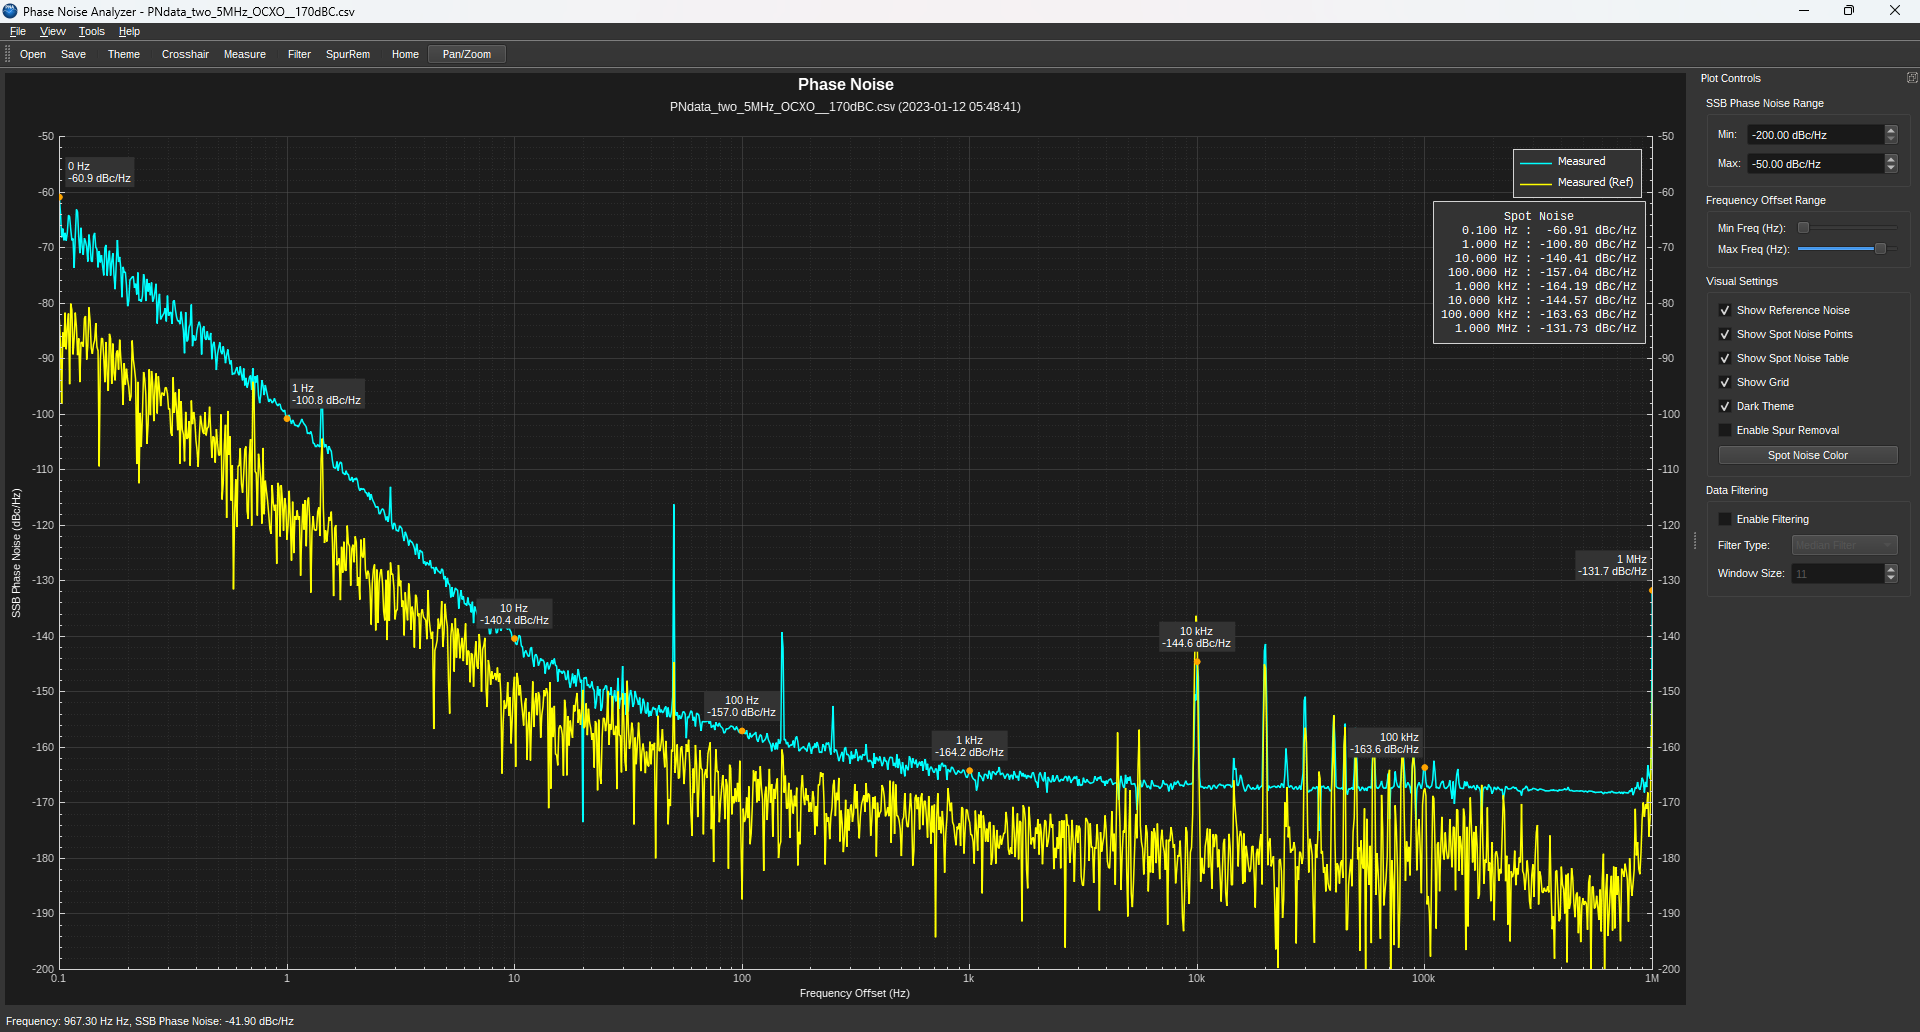
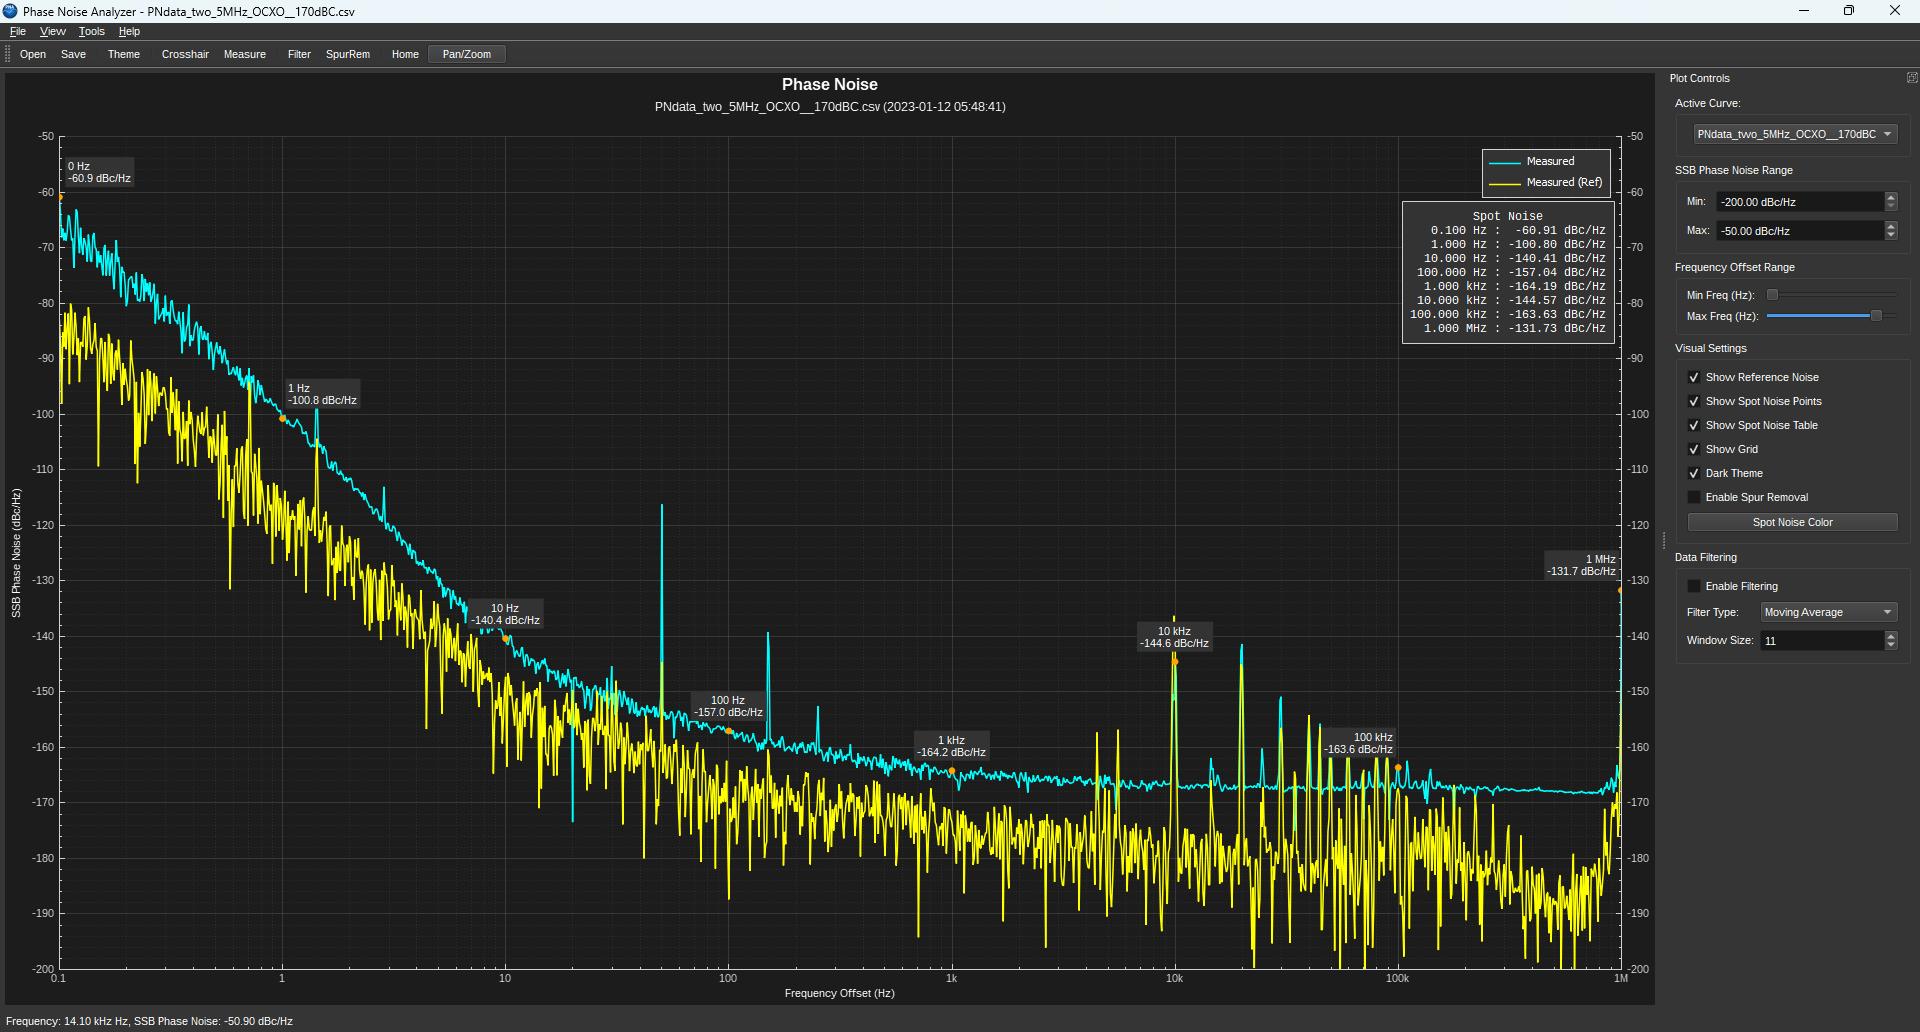
V1.0.1.0 Add Active Curve dropdown list to select the active curve (used for Spot Noise Points/Spot Noise Table/Crosshair).

diff --git a/phasenoiseanalyzerapp.cpp b/phasenoiseanalyzerapp.cpp
@@ -19,8 +19,8 @@
 ****************************************************************************
 **           Author: Benjamin VERNOUX                                     **
 **          Contact: https://github.com/bvernoux                          **
-**             Date: 04 May 2025                                          **
-**          Version: 1.0.0.1                                              **
+**             Date: 24 May 2025                                          **
+**          Version: 1.0.1.0                                              **
 ****************************************************************************/
 #include "phasenoiseanalyzerapp.h"
 #include "constants.h"
@@ -148,6 +148,7 @@ PhaseNoiseAnalyzerApp::PhaseNoiseAnalyzerApp(const QStringList& csvFilenames,
 
 	// Initialize spot noise colors based on initial theme
 	m_spotNoiseColor = m_useDarkTheme ? m_defaultSpotNoiseColorDark : m_defaultSpotNoiseColorLight;
+	m_activeDatasetIndex = -1; // Initialize active dataset index
 
 	setupUi();
 	applyTheme(); // Apply initial theme
@@ -170,6 +171,8 @@ PhaseNoiseAnalyzerApp::PhaseNoiseAnalyzerApp(const QStringList& csvFilenames,
 			initPlot(); // Show empty plot if no data
 		}
 	}
+	// Ensure combo box is updated even if no files were loaded
+	updateActiveCurveCombo();
 
 	// Setup timer for delayed maximization
 	m_startupTimer = new QTimer(this);
@@ -681,7 +684,11 @@ void PhaseNoiseAnalyzerApp::updatePlot()
 
 		QString filterPart = m_filteringEnabled ? QString(" | Filter: %1(W=%2)").arg(m_filterTypeCombo->currentText()).arg(m_filterWindowSpin->value()) : "";
 		QString spurPart = m_spurRemovalEnabled ? " | SpurRem:On" : "";
-		m_subtitleText->setText(QString("%1 (%2)%3%4").arg(filenamePart).arg(timestampPart.isEmpty() ? "N/A" : timestampPart).arg(filterPart).arg(spurPart));
+		if(timestampPart.isEmpty() == false) {
+			m_subtitleText->setText(QString("%1 (%2)%3%4").arg(filenamePart).arg(timestampPart).arg(filterPart).arg(spurPart));
+		} else {
+			m_subtitleText->setText(QString("%1 %2%3").arg(filenamePart).arg(filterPart).arg(spurPart));
+		}
 		m_subtitleText->setTextColor(textColor);
 		m_subtitleText->setTextFlags(Qt::AlignHCenter | Qt::AlignTop);
 		m_subtitleText->setMargins(QMargins(0, 0, 0, 4));
@@ -713,8 +720,7 @@ void PhaseNoiseAnalyzerApp::updatePlot()
 	yAxis2->setTicker(fixedTickerY2_upd); yAxis2->setNumberFormat("f"); yAxis2->setNumberPrecision(0);
 
 	// --- Plot Data for Each Dataset ---
-	bool isFirstVisible = true;
-	QCPGraph* firstVisibleMeasuredGraph = nullptr;
+	QCPGraph* firstVisibleMeasuredGraph = nullptr; // Still needed for generic operations or if active index is invalid
 
 	for (PlotData& data : m_datasets) {
 		// Create/Update Graphs for this dataset
@@ -743,9 +749,8 @@ void PhaseNoiseAnalyzerApp::updatePlot()
 			}
 			// Do NOT call data.graphMeasured->addToLegend();
 
-			if (data.isVisible && isFirstVisible) {
+			if (data.isVisible && !firstVisibleMeasuredGraph) { // Capture the very first one
 				firstVisibleMeasuredGraph = data.graphMeasured;
-				isFirstVisible = false;
 			}
 		}
 
@@ -855,8 +860,18 @@ void PhaseNoiseAnalyzerApp::updatePlot()
 	}
 
 	// --- Calculate and Draw Spot Noise Points/Labels ---
-	calculateSpotNoise(); // Calculates based on first visible dataset
-	if (m_showSpotNoise && firstVisibleMeasuredGraph) { // Use the first visible graph pointer
+	calculateSpotNoise(); // Calculates based on the active dataset (internally)
+
+	// The graph to attach spot noise items to is the active dataset's graph
+	QCPGraph* spotNoiseTargetGraph = nullptr;
+	if (m_activeDatasetIndex >= 0 && m_activeDatasetIndex < m_datasets.size()) {
+		// Ensure the active dataset is also visible and has a graph
+		if (m_datasets[m_activeDatasetIndex].isVisible && m_datasets[m_activeDatasetIndex].graphMeasured) {
+			spotNoiseTargetGraph = m_datasets[m_activeDatasetIndex].graphMeasured;
+		}
+	}
+
+	if (m_showSpotNoise && spotNoiseTargetGraph) { // Use the active dataset's graph
 		QCPLayer *overlayLayer = m_plot->layer("overlay");
 		if (!overlayLayer) overlayLayer = m_plot->layer("main");
 		for (auto it = m_spotNoiseData.constBegin(); it != m_spotNoiseData.constEnd(); ++it) {
@@ -866,7 +881,7 @@ void PhaseNoiseAnalyzerApp::updatePlot()
 
 			QCPItemTracer* tracer = new QCPItemTracer(m_plot);
 			if (overlayLayer) tracer->setLayer(overlayLayer);
-			tracer->setGraph(firstVisibleMeasuredGraph); // Attach tracer to the correct graph
+			tracer->setGraph(spotNoiseTargetGraph); // Attach tracer to the active graph
 			tracer->setGraphKey(actualFreq);
 			tracer->setInterpolating(true); // Ensure it interpolates if key not exact
 			tracer->setStyle(QCPItemTracer::tsCircle);
@@ -925,6 +940,19 @@ void PhaseNoiseAnalyzerApp::createToolPanels()
 	m_plotLayout = new QVBoxLayout(m_plotWidget);
 	m_plotLayout->setAlignment(Qt::AlignTop); // Keep controls packed at the top
 
+	// --- Active Curve group ---
+	QGroupBox* activeCurveGroup = new QGroupBox("Active Curve:");
+	QFormLayout* activeCurveLayout = new QFormLayout(activeCurveGroup);
+
+	// --- Active Curve Selection ---
+	m_activeCurveCombo = new QComboBox();
+	m_activeCurveCombo->setToolTip("Select the active curve for spot noise calculation and other operations.");
+	m_activeCurveCombo->setEnabled(false); // Initially disabled
+	m_activeCurveCombo->setMinimumWidth(80);
+	connect(m_activeCurveCombo, QOverload<int>::of(&QComboBox::currentIndexChanged), this, &PhaseNoiseAnalyzerApp::onActiveCurveChanged);
+	activeCurveLayout->addRow("", m_activeCurveCombo);
+	m_plotLayout->addWidget(activeCurveGroup);
+
 	// --- Y-axis range controls ---
 	QGroupBox* yRangeGroup = new QGroupBox("SSB Phase Noise Range");
 	QFormLayout* yRangeLayout = new QFormLayout(yRangeGroup);
@@ -949,6 +977,8 @@ void PhaseNoiseAnalyzerApp::createToolPanels()
 	// --- Frequency range sliders group ---
 	QGroupBox* freqSliderGroup = new QGroupBox("Frequency Offset Range");
 	QFormLayout* freqSliderLayout = new QFormLayout(freqSliderGroup);
+
+	// --- Frequency Sliders ---
 	m_minFreqSlider = new QSlider(Qt::Horizontal);
 	m_minFreqSlider->setRange(0, Constants::FREQ_POINTS.size() - 1);
 	m_minFreqSlider->setValue(m_minFreqSliderIndex);
@@ -1246,6 +1276,9 @@ void PhaseNoiseAnalyzerApp::loadData(const QString& filename)
 	// Update UI components
 	updatePlot(); // Update plot with new data
 
+	// Update the active curve combo box, which might trigger another updatePlot via onActiveCurveChanged
+	updateActiveCurveCombo();
+
 	// Update window title based on loaded files
 	if (m_datasets.size() == 1) {
 		setWindowTitle(QString("Phase Noise Analyzer - %1").arg(QFileInfo(filename).fileName()));
@@ -1257,6 +1290,65 @@ void PhaseNoiseAnalyzerApp::loadData(const QString& filename)
 		QFileInfo fileInfo(filename);
 		m_outputFilename = fileInfo.path() + "/" + fileInfo.completeBaseName() + ".png";
 	}
+}
+
+void PhaseNoiseAnalyzerApp::updateActiveCurveCombo()
+{
+	if (!m_activeCurveCombo) return;
+
+	m_activeCurveCombo->blockSignals(true);
+
+	QString previouslySelectedDisplayName;
+	if (m_activeDatasetIndex >= 0 && m_activeDatasetIndex < m_datasets.size()) {
+		previouslySelectedDisplayName = m_datasets[m_activeDatasetIndex].displayName;
+	}
+
+	m_activeCurveCombo->clear();
+
+	if (m_datasets.isEmpty()) {
+		m_activeCurveCombo->setEnabled(false);
+		// m_activeDatasetIndex will be set to -1 by onActiveCurveChanged
+	} else {
+		for (const PlotData& data : m_datasets) {
+			m_activeCurveCombo->addItem(data.displayName);
+		}
+		m_activeCurveCombo->setEnabled(true);
+
+		int comboIndexToReselect = -1;
+		if (!previouslySelectedDisplayName.isEmpty()) {
+			comboIndexToReselect = m_activeCurveCombo->findText(previouslySelectedDisplayName);
+		}
+
+		if (comboIndexToReselect != -1) {
+			m_activeCurveCombo->setCurrentIndex(comboIndexToReselect);
+		} else { // Previously selected not found or no previous selection
+			m_activeCurveCombo->setCurrentIndex(0); // Select the first one
+		}
+	}
+	m_activeCurveCombo->blockSignals(false);
+
+	// Manually trigger the handler for the (potentially new) current index.
+	// This ensures m_activeDatasetIndex is correctly updated and plot refreshes.
+	if (m_activeCurveCombo->currentIndex() != -1) {
+		onActiveCurveChanged(m_activeCurveCombo->currentIndex());
+	} else if (m_datasets.isEmpty()) {
+		// This ensures m_activeDatasetIndex becomes -1 and plot updates
+		onActiveCurveChanged(-1);
+	}
+}
+
+void PhaseNoiseAnalyzerApp::onActiveCurveChanged(int comboBoxIndex)
+{
+	if (!m_activeCurveCombo) {
+		m_activeDatasetIndex = -1;
+	} else if (m_datasets.isEmpty() || comboBoxIndex < 0 || comboBoxIndex >= m_activeCurveCombo->count()) {
+		m_activeDatasetIndex = -1;
+	} else {
+		// Assuming comboBoxIndex directly maps to m_datasets index as items are added sequentially
+		m_activeDatasetIndex = comboBoxIndex;
+		qInfo() << "Active curve changed to:" << m_datasets[m_activeDatasetIndex].displayName;
+	}
+	updatePlot(); // Always update plot after active curve change
 }
 
 int PhaseNoiseAnalyzerApp::findClosestFreqStepIndex(double freq) {
@@ -1777,24 +1869,24 @@ void PhaseNoiseAnalyzerApp::applySpurRemoval() {
 void PhaseNoiseAnalyzerApp::calculateSpotNoise()
 {
 	m_spotNoiseData.clear();
-	if (m_datasets.isEmpty()) return;
 
-	// Find the *first visible* dataset for spot noise calculation
-	const PlotData* firstVisibleData = nullptr;
-	for(const auto& data : m_datasets) {
-		if (data.isVisible && data.graphMeasured && !data.frequencyOffset.isEmpty()) {
-			firstVisibleData = &data;
-			break;
+	// Use the active dataset if one is selected and valid
+	const PlotData* activeData = nullptr;
+	if (m_activeDatasetIndex >= 0 && m_activeDatasetIndex < m_datasets.size()) {
+		if (m_datasets[m_activeDatasetIndex].isVisible &&
+			m_datasets[m_activeDatasetIndex].graphMeasured &&
+			!m_datasets[m_activeDatasetIndex].frequencyOffset.isEmpty()) {
+			activeData = &m_datasets[m_activeDatasetIndex];
 		}
 	}
 
-	if (!firstVisibleData) {
-		qWarning() << "calculateSpotNoise: No visible dataset found to calculate spot noise from.";
-		return; // No visible data to calculate from
+	if (!activeData) {
+		qWarning() << "calculateSpotNoise: No active, visible, or valid dataset found to calculate spot noise from.";
+		return; // No valid data to calculate from
 	}
 
-	// Use the data currently plotted in the first visible measured graph
-	QSharedPointer<QCPGraphDataContainer> dataContainer = firstVisibleData->graphMeasured->data();
+	// Use the data currently plotted in the active graph
+	QSharedPointer<QCPGraphDataContainer> dataContainer = activeData->graphMeasured->data();
 
 	// Get current view range
 	double xMinView = m_plot->xAxis->range().lower;
@@ -2210,10 +2302,11 @@ void PhaseNoiseAnalyzerApp::removeSelectedDataset()
 		// Pointers are implicitly cleared by removeGraph and will be null in the struct after removal anyway
 
 		// Remove the data from our internal list
-		m_datasets.removeAt(indexToRemove);
+		m_datasets.removeAt(indexToRemove); // This invalidates m_activeDatasetIndex if it was >= indexToRemove
+		updateActiveCurveCombo(); // Update combo and m_activeDatasetIndex, then calls updatePlot
 
 		// Update everything else
-		updatePlot(); // Redraw plot without the removed graphs/legend items
+		// updatePlot() is called by updateActiveCurveCombo -> onActiveCurveChanged
 
 		// Update window title if needed
 		if (m_datasets.isEmpty()) {
@@ -2245,7 +2338,8 @@ void PhaseNoiseAnalyzerApp::onPlotMouseMove(QMouseEvent* event) {
 								 .arg(Utils::formatFrequencyValue(x))
 								 .arg(y, 0, 'f', 2));
 
-	// Find the first visible measured graph
+	// Find the first visible measured graph (for crosshair behavior - might change if crosshair should follow active curve)
+	// Use the active curve for the crosshair, if valid and visible
 	QCPGraph* targetGraph = nullptr;
 	for (const auto& data : m_datasets) {
 		if (data.isVisible && data.graphMeasured) {
@@ -2253,7 +2347,12 @@ void PhaseNoiseAnalyzerApp::onPlotMouseMove(QMouseEvent* event) {
 			break;
 		}
 	}
-
+	if (m_activeDatasetIndex >= 0 && m_activeDatasetIndex < m_datasets.size()) {
+		const PlotData& activeData = m_datasets[m_activeDatasetIndex];
+		if (activeData.isVisible && activeData.graphMeasured) {
+			targetGraph = activeData.graphMeasured;
+		}
+	}
 	// Handle crosshair
 	if (m_useCrosshair && targetGraph) {
 		// Find the closest data point on the *measured* graph to the mouse cursor's x-coordinate
@@ -2469,10 +2568,16 @@ void PhaseNoiseAnalyzerApp::onOpenFile()
 		for(auto item : std::as_const(m_spotNoiseLabels)) { if (item) m_plot->removeItem(item); } m_spotNoiseLabels.clear();
 		// Keep user preference for reference plotting if possible
 		m_plotReferenceDefault = m_toggleReferenceAction->isChecked();
+		m_activeDatasetIndex = -1; // Reset active index before loading new data
+
 
 		for (const QString& filename : filenames) {
 			loadData(filename);
 		}
+		// After all files are processed, ensure the combo box reflects the final state.
+		// loadData calls updateActiveCurveCombo, so this should be handled.
+		// If m_datasets is still empty, updateActiveCurveCombo will disable the combo.
+		// If m_datasets is populated, updateActiveCurveCombo will select an item.
 	}
 }
 

diff --git a/phasenoiseanalyzerapp.h b/phasenoiseanalyzerapp.h
@@ -19,8 +19,8 @@
 ****************************************************************************
 **           Author: Benjamin VERNOUX                                     **
 **          Contact: https://github.com/bvernoux                          **
-**             Date: 04 May 2025                                          **
-**          Version: 1.0.0.1                                              **
+**             Date: 24 May 2025                                          **
+**          Version: 1.0.1.0                                              **
 ****************************************************************************/
 
 #ifndef PHASENOISEANALYZERAPP_H
@@ -83,7 +83,7 @@ public:
 		int originalTickCount = ticks.size(); // Store original count
 
 		if (!ticks.isEmpty()) { // Avoid processing if base class returned nothing
-            for (double tick : std::as_const(ticks)) {
+			for (double tick : std::as_const(ticks)) {
 				// Check positivity for log calculation, handle near-zero carefully
 				if (tick > epsilon) {
 					double log10Tick = std::log10(tick);
@@ -237,6 +237,7 @@ private slots:
 
 	// Utility Slots
 	void forceOddWindowSize(int value);
+	void onActiveCurveChanged(int index);
 
 	//positionSpotNoiseTable
 	void positionSpotNoiseTable(void);
@@ -246,6 +247,7 @@ private slots:
 
 private:
 	void setupUi();
+	void updateActiveCurveCombo();
 	void createMenus();
 	void createToolbars();
 	void createPlotArea();
@@ -274,6 +276,7 @@ private:
 
 	// Data Storage for Multiple Datasets
 	QList<PlotData> m_datasets;
+	int m_activeDatasetIndex = -1; // Index of the active dataset in m_datasets
 
 	QVector<double> m_frequencyOffsetFiltered;
 	QVector<double> m_phaseNoiseFiltered;
@@ -365,6 +368,7 @@ private:
 	QDockWidget* m_plotDock = nullptr;
 	QWidget* m_plotWidget = nullptr;
 	QVBoxLayout* m_plotLayout = nullptr;
+	QComboBox* m_activeCurveCombo = nullptr;
 
 	// Controls within Dock
 	QDoubleSpinBox* m_yMinSpin = nullptr;

diff --git a/constants.h b/constants.h
@@ -19,8 +19,8 @@
 ****************************************************************************
 **           Author: Benjamin VERNOUX                                     **
 **          Contact: https://github.com/bvernoux                          **
-**             Date: 12 Apr 2025                                          **
-**          Version: 1.0.0                                                **
+**             Date: 24 May 2025                                          **
+**          Version: 1.0.1.0                                              **
 ****************************************************************************/
 #ifndef CONSTANTS_H
 #define CONSTANTS_H
@@ -39,7 +39,7 @@ constexpr int DEFAULT_SPUR_WINDOW_SIZE = 21;
 
 // Y-axis limits constants
 constexpr double Y_AXIS_MIN = -200.0;
-constexpr double Y_AXIS_MAX = 0.0;
+constexpr double Y_AXIS_MAX = 10.0;
 constexpr double Y_AXIS_DEFAULT_MIN = -200.0;
 constexpr double Y_AXIS_DEFAULT_MAX = -50.0;
 constexpr double Y_AXIS_MAJOR_TICK = 10.0;

diff --git a/version.h b/version.h
@@ -1,10 +1,10 @@
 #ifndef VERSION_H
 #define VERSION_H
 
-#define VER_DATE_INFO_STR        " - 04-May-2025"
+#define VER_DATE_INFO_STR        " - 24-May-2025"
 
-#define VER_FILEVERSION          1,0,0,1
-#define VER_FILEVERSION_STR      "1.0.0.1\0"
+#define VER_FILEVERSION          1,0,1,0
+#define VER_FILEVERSION_STR      "1.0.1.0\0"
 
 #define VER_PRODUCTVERSION       VER_FILEVERSION
 #define VER_PRODUCTVERSION_STR   VER_FILEVERSION_STR

diff --git a/README.md b/README.md
@@ -139,6 +139,7 @@ Launch the executable.
 * **Toolbar:** Quick access to common actions (Open, Save, Theme, Tools, Home View, Pan/Zoom).
 
 * **Plot Controls Panel (Dock Widget):**
+  * Active Curve dropdown list to select the active curve (used for Spot Noise Points/Spot Noise Table/Crosshair).
   * Adjust Y-axis (Phase Noise) range limits.
   * Adjust X-axis (Frequency) range limits using sliders corresponding to standard decades.
   * Checkboxes for toggling Reference Noise, Spot Noise (Points/Table), Grid, Dark Theme, Spur Removal.
